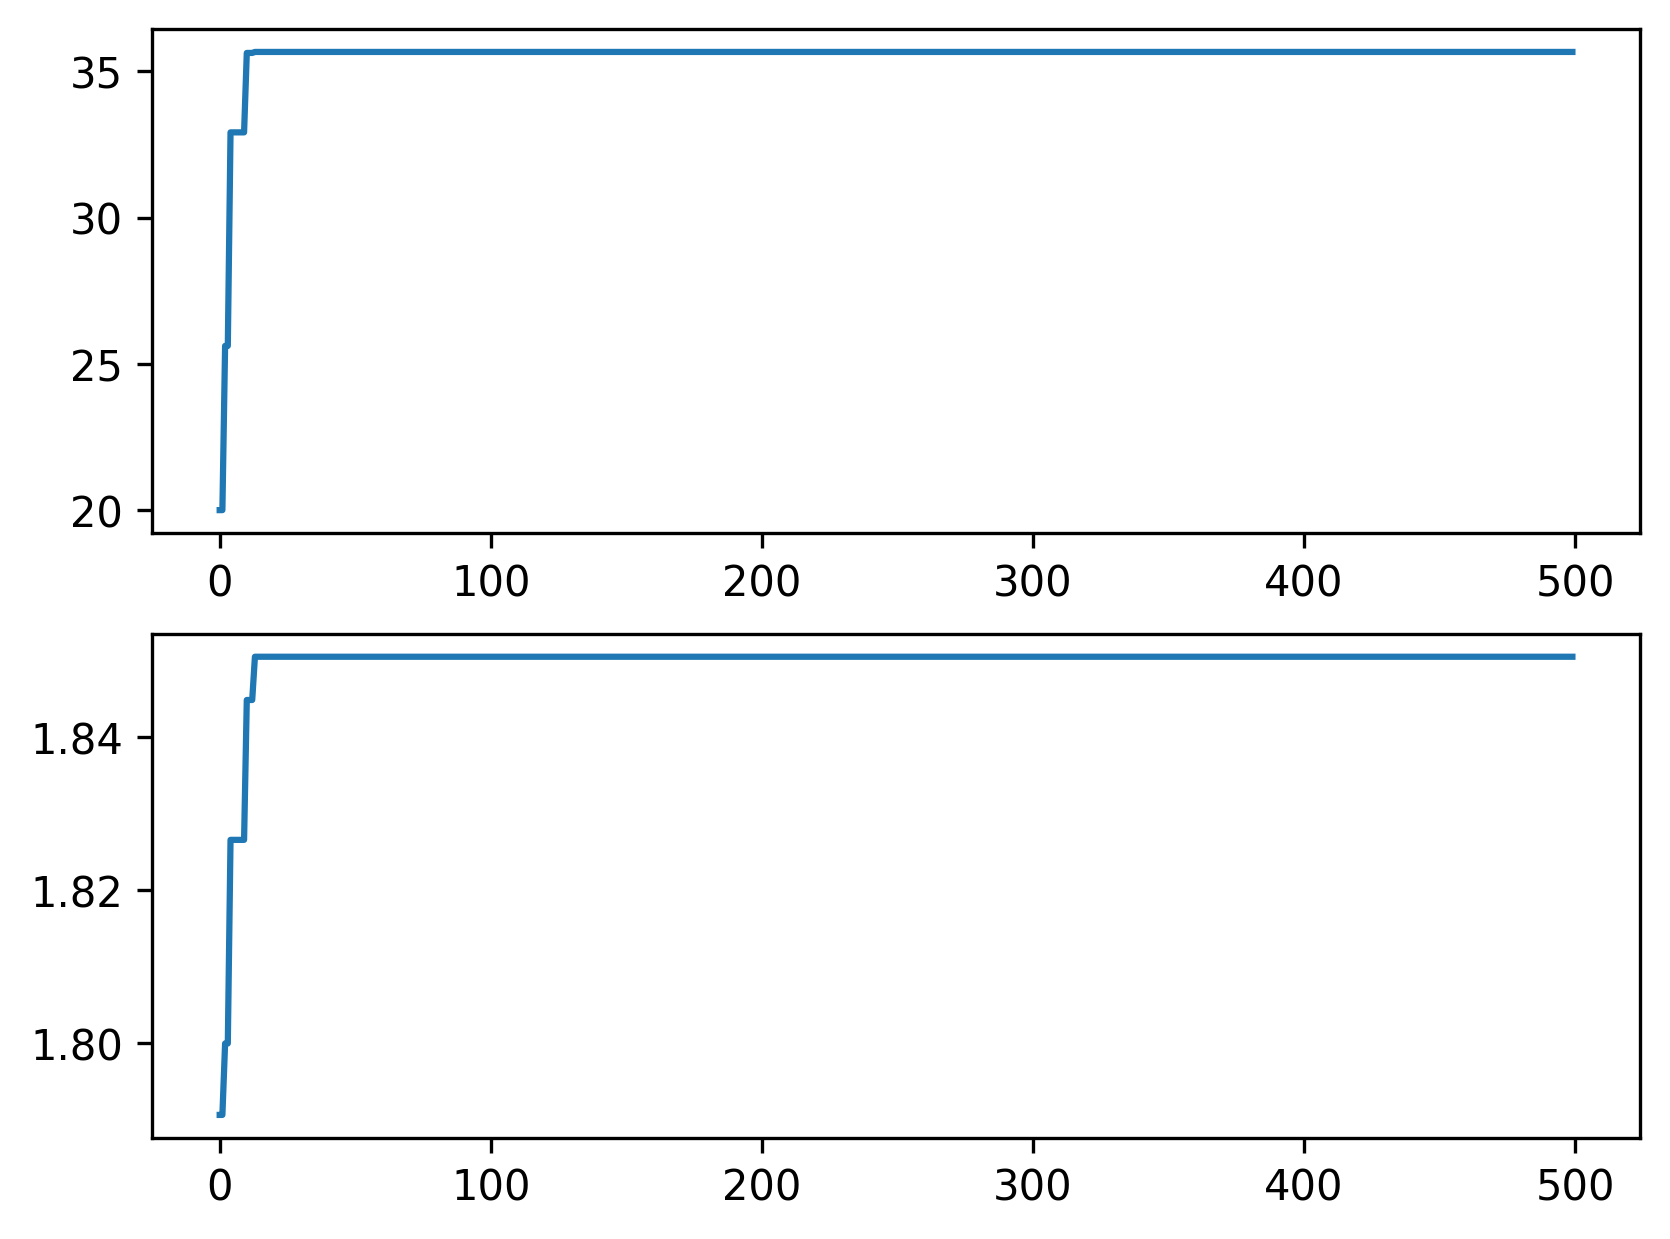
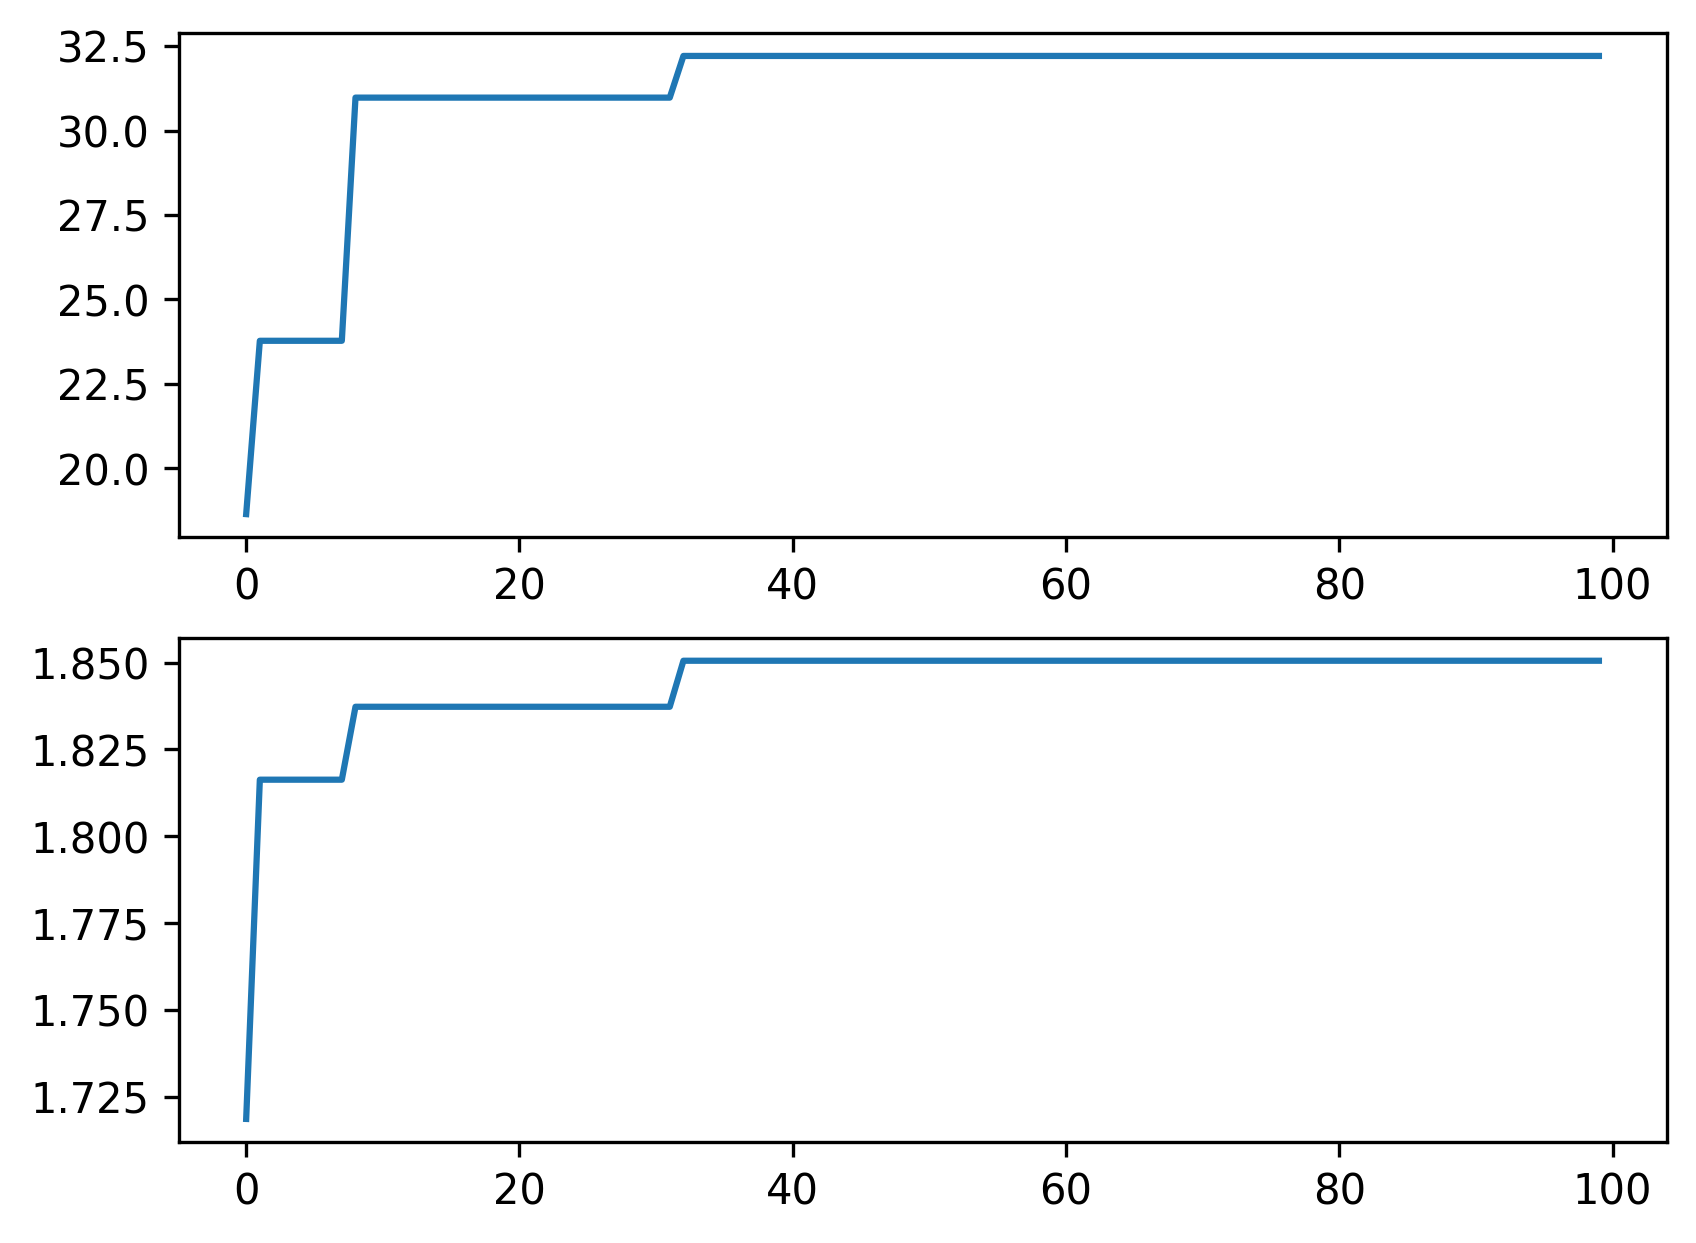
Cambios finales puntos 1 y 4

diff --git a/Codigo/P4_imagen.py b/Codigo/P4_imagen.py
@@ -65,7 +65,7 @@ def evolucionar_poblacion(pb, objetivo, prob_mutacion, tamano_inicial, largo, an
 
 def reconstruir_imagen():
     # 1. Cargar y preparar imagen objetivo
-    ruta_imagen = os.path.join(os.path.dirname(__file__), 'imagen.jpeg')
+    ruta_imagen = os.path.join(os.path.dirname(__file__), 'mariposa.jpg')
     if os.path.exists(ruta_imagen):
         # Leer en RGB
         img_original = cv2.imread(ruta_imagen)

diff --git a/Codigo/P1_maximo.py b/Codigo/P1_maximo.py
@@ -14,7 +14,7 @@ def funcion(x):
 #seleccionados = poblacion(0,10,1,"binario",1,0)
 
 tamano_inicial = 20
-generaciones = 500
+generaciones = 100
 
 pb = poblacion(tamano_inicial, 10, 1, "binario", 1, 0)
 lista_gen = np.arange(generaciones)
